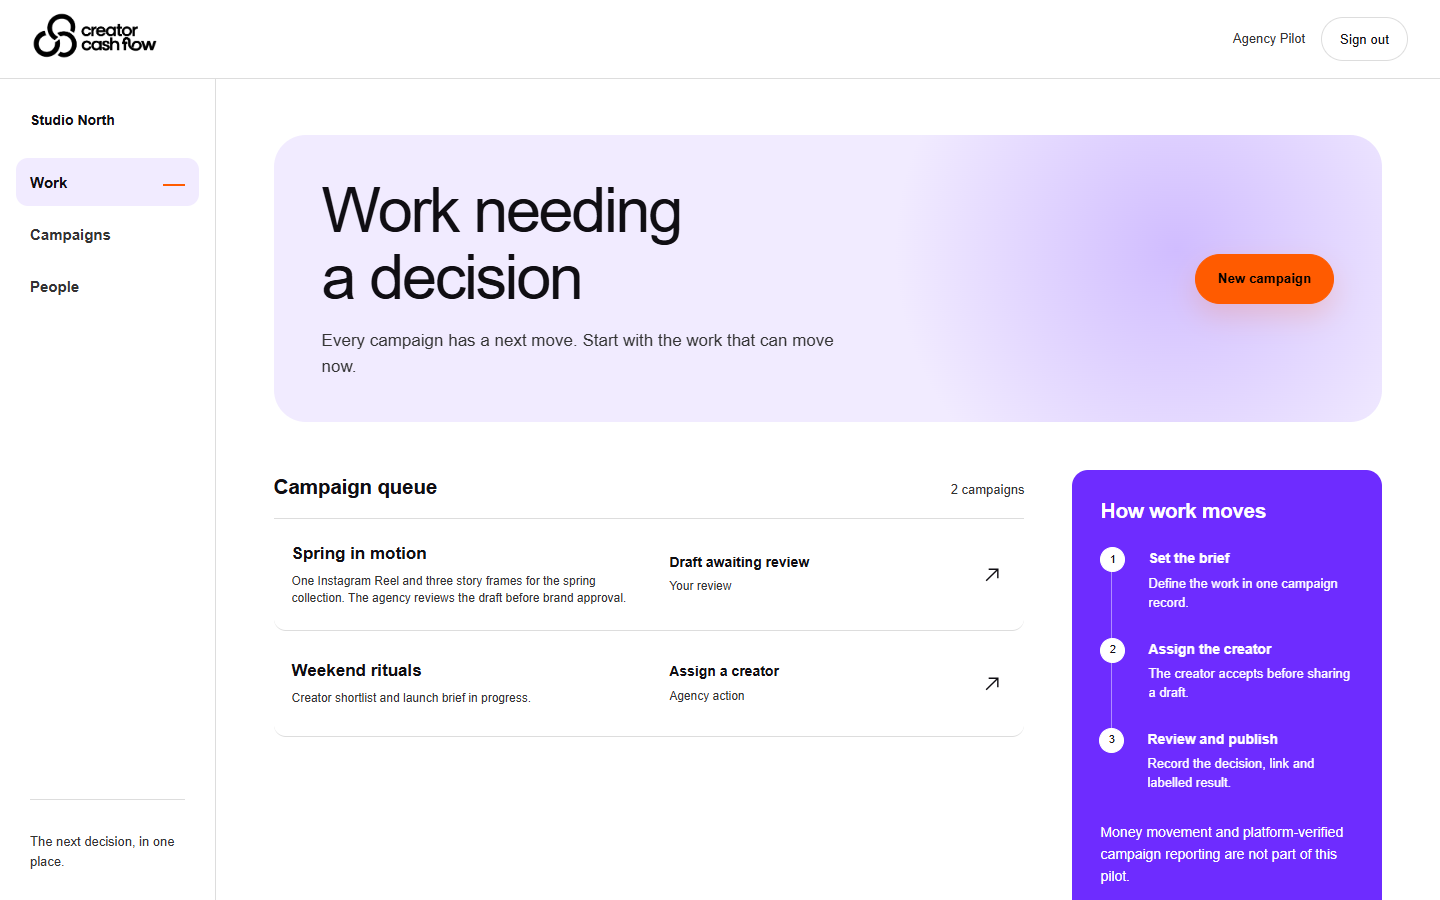
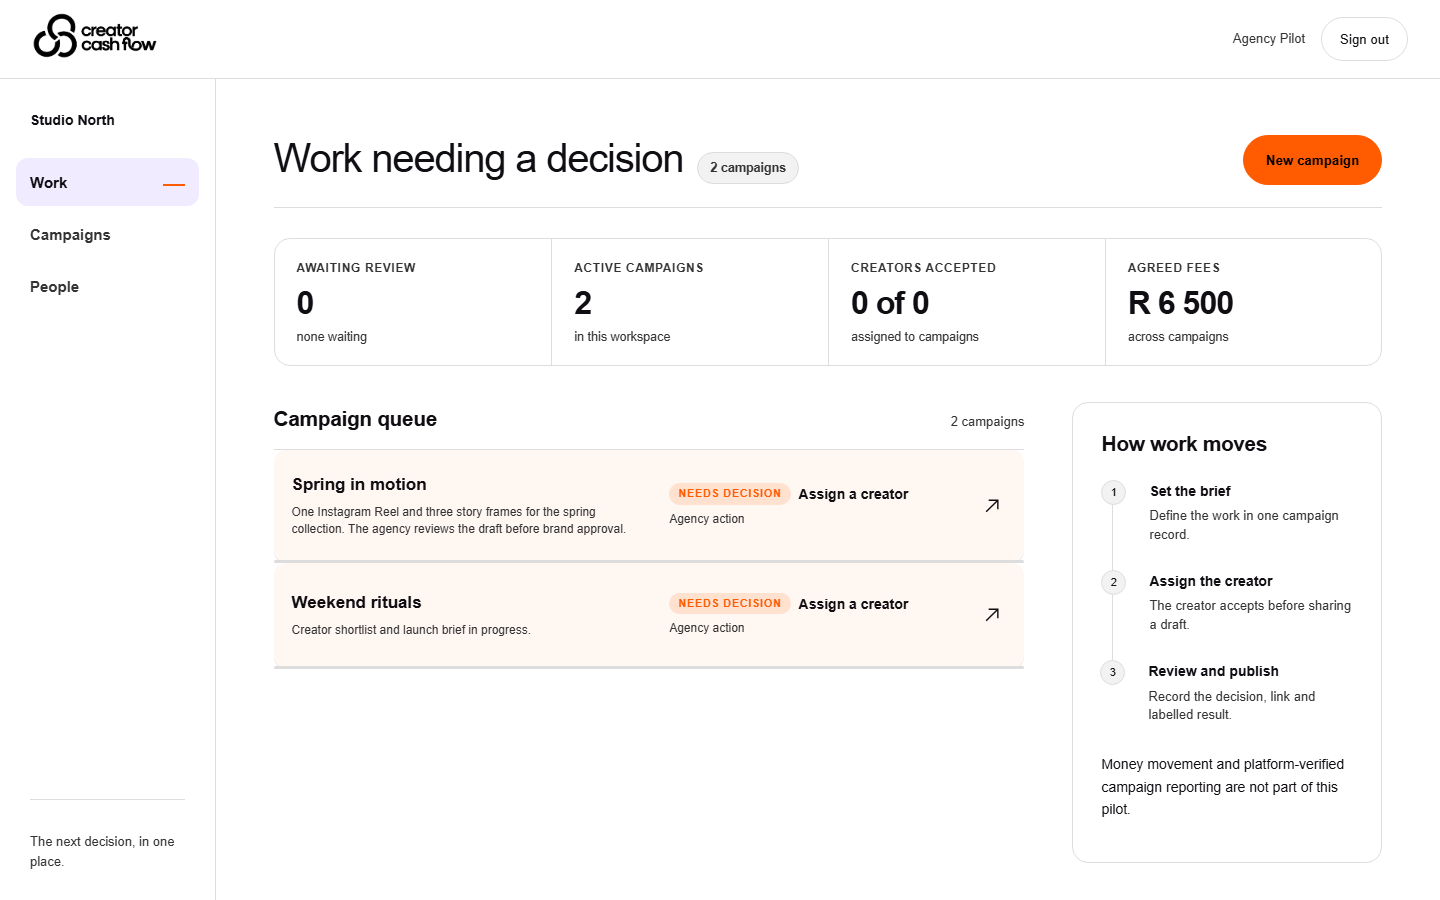
fix(landing): stop cropping chapter preview screenshots at <=700px; regenerate demo images
- The <picture> source switches to full-page 390x844 mobile screenshots at
  <=700px, but the img kept aspect-ratio:9/12 + object-fit:cover (<=520px) or
  16/10 (base), so the taller mobile image was cropped and the CTA at the
  bottom was sliced off. Now aspect-ratio:auto at <=700px so the mobile
  screenshot renders at its natural ratio, uncropped (desktop 16/10 unchanged,
  it matches the 1440x900 source).
- Regenerated all six assets/demo/*.png against the redesigned dashboards and
  current copy (agency/brand workspaces with KPI strips + flagged queue,
  #journey sample campaign) — the old shots still showed the lavender hero
  and pre-redesign wording.

Verified: chapter visual img box fits figure (cropped=false) at 390-1440;
48-combo audit 0 flags, 0 page errors; tests 11/11, 51/0, npm test green

Generated by Mistral Vibe.

diff --git a/assets/ccf-narrative.css b/assets/ccf-narrative.css
@@ -137,3 +137,6 @@ body.ccf-marketing .public-nav .primary-link{padding:0 26px;font-weight:700}
 /* When GSAP owns the heading words, switch off the CSS heading-arrive animation to avoid a double reveal. */
 .ccf-n-chapter.is-revealed .ccf-n-chapter-copy h2.is-split{animation:none}
 @media(prefers-reduced-motion:reduce){.w-mask{overflow:visible;padding-bottom:0;margin-bottom:0}.w-word{will-change:auto}}
+/* The <picture> source switches to full-page 390x844 mobile screenshots at <=700px;
+   let them render at their natural ratio instead of cropping with a fixed aspect-ratio. */
+@media(max-width:700px){.ccf-n-chapter-visual img{aspect-ratio:auto}}
